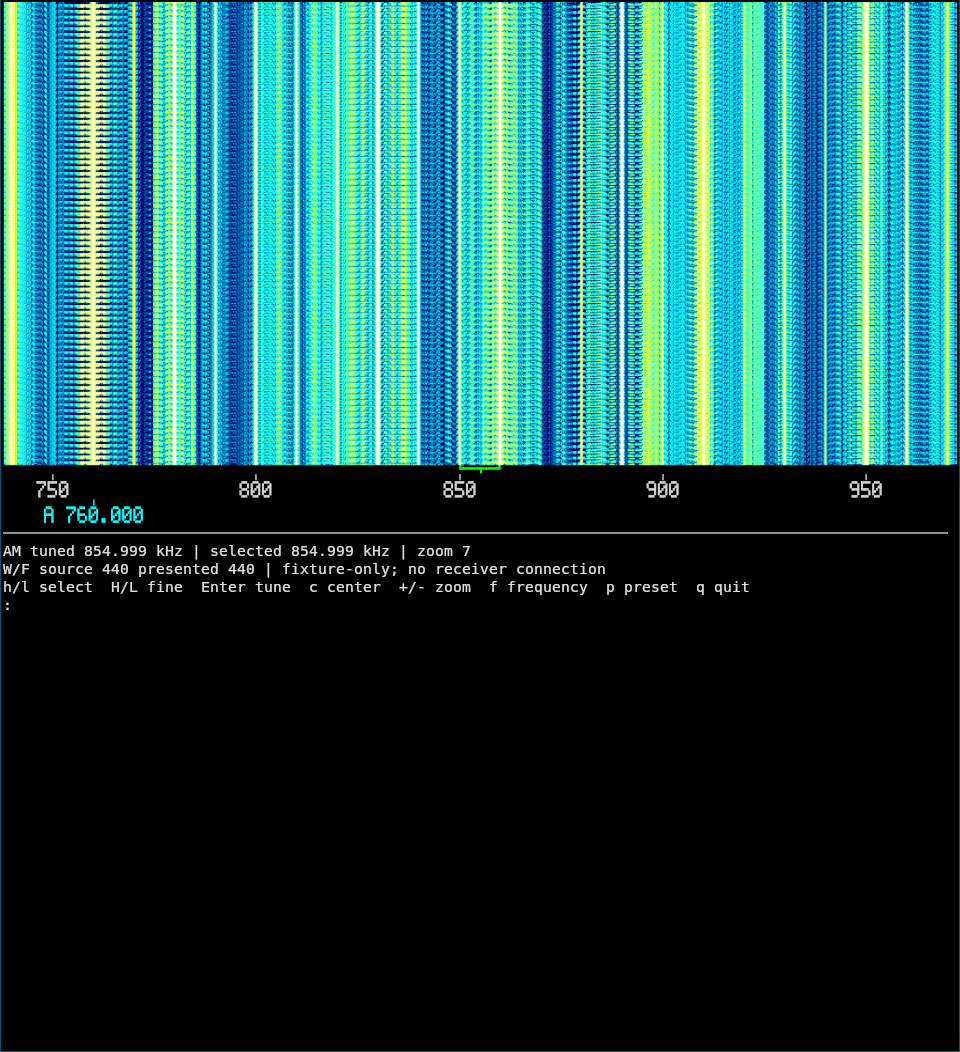
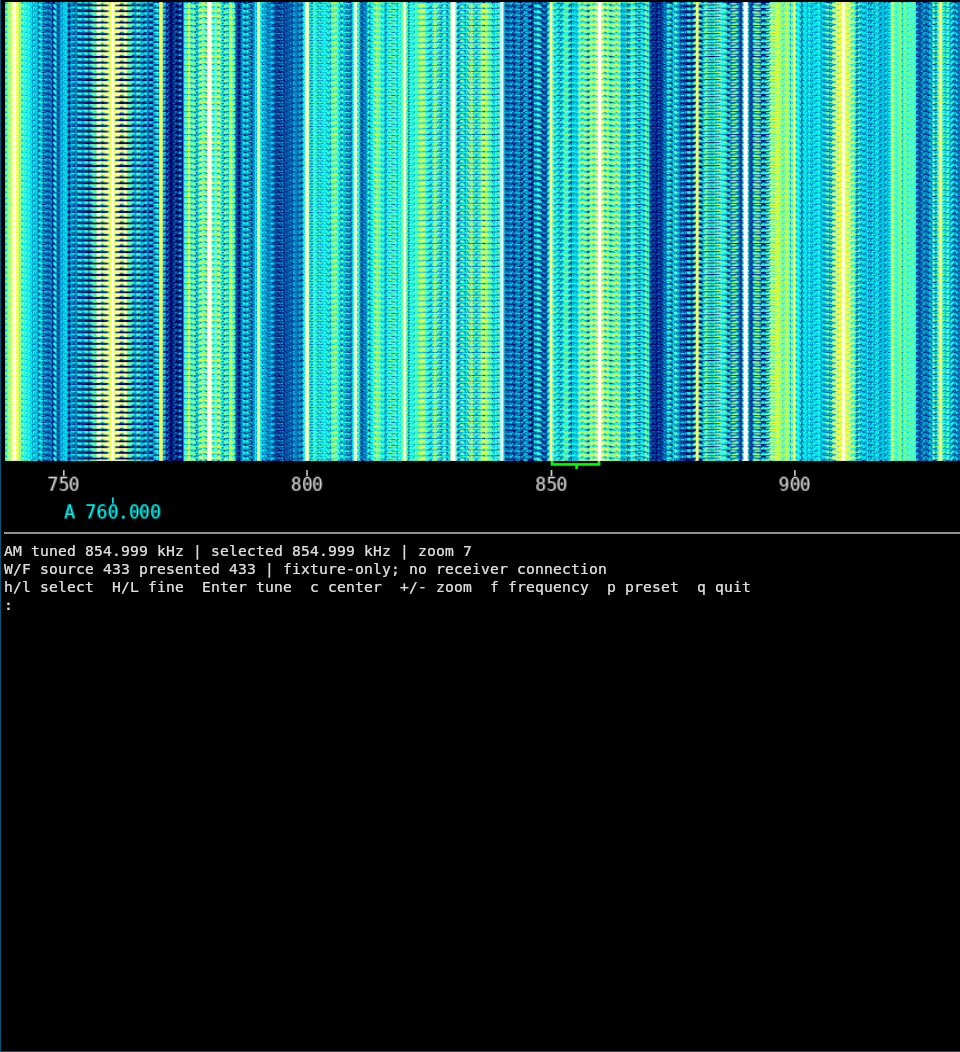
Render graphical scales with FreeType

diff --git a/src/kiwi_client/waterfall_scale.py b/src/kiwi_client/waterfall_scale.py
@@ -4,7 +4,7 @@ from __future__ import annotations
 
 import math
 from dataclasses import dataclass
-from typing import Any, Mapping
+from typing import Any, Mapping, Protocol
 
 from kiwi_client.waterfall_raster import CURSOR_MARKER_RGB, RasterImage
 from kiwi_client.waterfall_terminal import choose_frequency_tick_step, frequency_label_decimals
@@ -99,6 +99,83 @@ def draw_bitmap_text(
                             rgb[offset:offset + 3] = encoded_color
 
 
+class ScaleTextRenderer(Protocol):
+    backend: str
+    line_height: int
+
+    def width(self, text: str) -> int: ...
+
+    def render(
+        self,
+        rgb: bytes | bytearray,
+        width: int,
+        height: int,
+        labels: list[tuple[int, int, str, tuple[int, int, int]]],
+    ) -> bytes: ...
+
+
+class BitmapScaleTextRenderer:
+    backend = "bitmap"
+
+    def __init__(self, *, scale: int) -> None:
+        self.scale = scale
+        self.line_height = 7 * scale
+
+    def width(self, text: str) -> int:
+        return bitmap_text_width(text, scale=self.scale)
+
+    def render(self, rgb, width, height, labels) -> bytes:
+        canvas = bytearray(rgb)
+        for x, y, text, color in labels:
+            draw_bitmap_text(canvas, width, height, x, y, text, color, scale=self.scale)
+        return bytes(canvas)
+
+
+class PillowScaleTextRenderer:
+    """C-backed FreeType text renderer used by the integrated graphical scale."""
+
+    backend = "pillow"
+
+    def __init__(self, *, font_size: int, font_name: str = "DejaVuSansMono.ttf") -> None:
+        from PIL import ImageFont
+
+        if font_size <= 0:
+            raise ValueError("FreeType font size must be positive")
+        self.font = ImageFont.truetype(font_name, font_size)
+        self.line_height = font_size
+
+    def width(self, text: str) -> int:
+        return max(1, math.ceil(self.font.getlength(text)))
+
+    def render(self, rgb, width, height, labels) -> bytes:
+        from PIL import Image, ImageDraw
+
+        image = Image.frombytes("RGB", (width, height), bytes(rgb))
+        draw = ImageDraw.Draw(image)
+        for x, y, text, color in labels:
+            draw.text((x, y), text, fill=color, font=self.font, anchor="lt")
+        return image.tobytes()
+
+
+def scale_text_renderer(
+    backend: str,
+    *,
+    font_scale: int,
+    font_name: str = "DejaVuSansMono.ttf",
+) -> ScaleTextRenderer:
+    """Resolve FreeType text with a deterministic bitmap fallback."""
+    normalized = backend.lower()
+    if normalized not in ("auto", "pillow", "bitmap"):
+        raise ValueError("scale font backend must be auto, pillow or bitmap")
+    if normalized in ("auto", "pillow"):
+        try:
+            return PillowScaleTextRenderer(font_size=8 * font_scale, font_name=font_name)
+        except (ImportError, OSError):
+            if normalized == "pillow":
+                raise RuntimeError("Pillow/FreeType scale font is unavailable")
+    return BitmapScaleTextRenderer(scale=font_scale)
+
+
 @dataclass(frozen=True)
 class GraphicalScaleResult:
     image: RasterImage
@@ -107,6 +184,7 @@ class GraphicalScaleResult:
     tuning_top: int
     tick_top: int
     preset_stem_top: int
+    text_backend: str
 
 
 def _frequency_column(frequency_khz: float, start_khz: float, end_khz: float, width: int) -> int | None:
@@ -133,15 +211,18 @@ def compose_waterfall_scale(
     presets: Mapping[str, Mapping[str, Any]],
     label_target_pixels: int = 150,
     font_scale: int = 2,
+    font_backend: str = "auto",
+    font_name: str = "DejaVuSansMono.ttf",
 ) -> GraphicalScaleResult:
     """Compose pixel-aligned tuning, frequency and preset scales below W/F."""
     if end_khz <= start_khz or label_target_pixels < 20 or font_scale <= 0:
         raise ValueError("invalid graphical scale dimensions")
+    text_renderer = scale_text_renderer(font_backend, font_scale=font_scale, font_name=font_name)
     tuning_height = 8
     tick_height = 5
-    label_height = 7 * font_scale + 3
+    label_height = text_renderer.line_height + 3
     preset_stem_height = 5
-    preset_label_height = 7 * font_scale + 2
+    preset_label_height = text_renderer.line_height + 2
     footer_height = tuning_height + tick_height + label_height + preset_stem_height + preset_label_height
     output_height = waterfall.height + footer_height
     rgb = bytearray(waterfall.rgb + b"\x00" * waterfall.width * footer_height * 3)
@@ -177,6 +258,7 @@ def compose_waterfall_scale(
     step = choose_frequency_tick_step((end_khz - start_khz) / (target_labels - 1))
     decimals = frequency_label_decimals(step)
     frequency_labels: list[str] = []
+    text_labels: list[tuple[int, int, str, tuple[int, int, int]]] = []
     occupied: list[tuple[int, int]] = []
     frequency = math.ceil((start_khz - step * 1e-12) / step) * step
     while frequency <= end_khz + step * 1e-9:
@@ -185,20 +267,16 @@ def compose_waterfall_scale(
             for y in range(tick_top, tick_top + tick_height):
                 _set_pixel(rgb, waterfall.width, column, y, FREQUENCY_SCALE_RGB)
             label = f"{frequency:.{decimals}f}"
-            label_width = bitmap_text_width(label, scale=font_scale)
+            label_width = text_renderer.width(label)
             label_x = min(max(0, column - label_width // 2), max(0, waterfall.width - label_width))
             interval = (label_x, label_x + label_width)
             if not any(interval[0] < used[1] + font_scale and interval[1] + font_scale > used[0] for used in occupied):
-                draw_bitmap_text(
-                    rgb,
-                    waterfall.width,
-                    output_height,
+                text_labels.append((
                     label_x,
                     tick_top + tick_height + 1,
                     label,
                     FREQUENCY_SCALE_RGB,
-                    scale=font_scale,
-                )
+                ))
                 occupied.append(interval)
                 frequency_labels.append(label)
         frequency += step
@@ -217,29 +295,27 @@ def compose_waterfall_scale(
         assert column is not None
         for y in range(preset_stem_top, preset_stem_top + preset_stem_height):
             _set_pixel(rgb, waterfall.width, column, y, PRESET_SCALE_RGB)
-        label_width = bitmap_text_width(label, scale=font_scale)
+        label_width = text_renderer.width(label)
         label_x = min(max(0, column - label_width // 2), max(0, waterfall.width - label_width))
         interval = (label_x, label_x + label_width)
         if any(interval[0] < used[1] + font_scale and interval[1] + font_scale > used[0] for used in preset_occupied):
             continue
-        draw_bitmap_text(
-            rgb,
-            waterfall.width,
-            output_height,
+        text_labels.append((
             label_x,
             preset_stem_top + preset_stem_height + 1,
             label,
             PRESET_SCALE_RGB,
-            scale=font_scale,
-        )
+        ))
         preset_occupied.append(interval)
         preset_labels.append(label)
 
+    rendered_rgb = text_renderer.render(rgb, waterfall.width, output_height, text_labels)
     return GraphicalScaleResult(
-        image=RasterImage(waterfall.width, output_height, bytes(rgb)),
+        image=RasterImage(waterfall.width, output_height, rendered_rgb),
         frequency_labels=tuple(frequency_labels),
         preset_labels=tuple(preset_labels),
         tuning_top=tuning_top,
         tick_top=tick_top,
         preset_stem_top=preset_stem_top,
+        text_backend=text_renderer.backend,
     )

diff --git a/src/kiwi_client/integrated_terminal.py b/src/kiwi_client/integrated_terminal.py
@@ -246,6 +246,8 @@ def run_fixture_shell(
     presenter: KittyPanePresenter,
     source_fps: float,
     refresh_hz: float,
+    scale_font_backend: str = "auto",
+    scale_font_name: str = "DejaVuSansMono.ttf",
     demo_seconds: float | None = None,
 ) -> None:
     """Run fixture publication, curses text, and Kitty presentation in one thread."""
@@ -399,6 +401,8 @@ def run_fixture_shell(
                         low_cut_hz=state.low_cut_hz,
                         high_cut_hz=state.high_cut_hz,
                         presets=presets,
+                        font_backend=scale_font_backend,
+                        font_name=scale_font_name,
                     ).image
                 _safe_line(screen, layout.divider_row, "─" * columns, columns, curses.A_DIM)
                 rows = [
@@ -436,6 +440,8 @@ def build_arg_parser() -> argparse.ArgumentParser:
     parser.add_argument("--refresh-hz", type=float, default=5.0)
     parser.add_argument("--render-min-db", type=float, default=-100)
     parser.add_argument("--render-max-db", type=float, default=-40)
+    parser.add_argument("--scale-font", choices=("auto", "pillow", "bitmap"), default="auto")
+    parser.add_argument("--scale-font-name", default="DejaVuSansMono.ttf")
     parser.add_argument("--force", action="store_true")
     parser.add_argument("--demo-seconds", type=float, help="exit cleanly after a fixture demonstration interval")
     parser.add_argument("--dry-run", action="store_true")
@@ -484,6 +490,8 @@ def main(argv: list[str] | None = None) -> int:
                     presenter=presenter,
                     source_fps=args.fps,
                     refresh_hz=args.refresh_hz,
+                    scale_font_backend=args.scale_font,
+                    scale_font_name=args.scale_font_name,
                     demo_seconds=args.demo_seconds,
                 )
             )
@@ -547,6 +555,8 @@ def main(argv: list[str] | None = None) -> int:
                     presenter=presenter,
                     source_fps=args.fps,
                     refresh_hz=args.refresh_hz,
+                    scale_font_backend=args.scale_font,
+                    scale_font_name=args.scale_font_name,
                     demo_seconds=args.demo_seconds,
                 )
             )

diff --git a/tests/harness/test_waterfall_scale.py b/tests/harness/test_waterfall_scale.py
@@ -1,3 +1,5 @@
+import pytest
+
 from kiwi_client.waterfall_raster import CURSOR_MARKER_RGB, RasterImage
 from kiwi_client.waterfall_scale import (
     FREQUENCY_SCALE_RGB,
@@ -6,6 +8,7 @@ from kiwi_client.waterfall_scale import (
     bitmap_text_width,
     compose_waterfall_scale,
     draw_bitmap_text,
+    scale_text_renderer,
 )
 
 
@@ -21,6 +24,22 @@ def test_bitmap_font_draws_deterministic_numeric_and_register_text():
     assert bitmap_text_width("A 760.0", scale=2) == 82
     assert any(canvas)
     assert tuple(canvas[(1 * 80 + 3) * 3:(1 * 80 + 3) * 3 + 3]) == FREQUENCY_SCALE_RGB
+
+
+def test_pillow_freetype_renderer_is_antialiased_when_available():
+    pytest.importorskip("PIL")
+    renderer = scale_text_renderer("pillow", font_scale=2)
+    rendered = renderer.render(
+        b"\x00" * 120 * 24 * 3,
+        120,
+        24,
+        [(1, 1, "850.0", (255, 255, 255))],
+    )
+
+    channel_values = set(rendered[0::3])
+    assert renderer.backend == "pillow"
+    assert 255 in channel_values
+    assert any(0 < value < 255 for value in channel_values)
 
 
 def test_graphical_scale_uses_exact_frequency_columns_for_all_markers():

diff --git a/docs/user-guide.md b/docs/user-guide.md
@@ -571,10 +571,10 @@ The viewer caches bounded RGB rows and uses fast PNG compression so unchanged hi
 
 `kiwi-console` is the primary integrated terminal prototype. It places one composed Kitty image in the upper half of a curses alternate screen, followed by a compact control/status area. Fixture mode never connects; guarded live mode is described below.
 
-Install/update the editable command, then inspect its plan without opening curses:
+Install/update the editable command with anti-aliased graphical labels, then inspect its plan without opening curses:
 
 ```bash
-.kiwi-venv/bin/python -m pip install -e .
+.kiwi-venv/bin/python -m pip install -e '.[terminal-graphics]'
 kiwi-console --fixture tests/fixtures/kiwi/local-wf-am-855-zoom7.jsonl --dry-run
 ```
 
@@ -597,7 +597,7 @@ kiwi-console --allow-live --receiver 10.0.0.40:8073 \
 
 The controller opens SND before W/F, publishes bounded latest snapshots, routes typed tune/view actions to the active stream queues, and stops/joins both streams on console exit. `--dry-run` reports the intended command without connecting.
 
-Fixture controls are `h`/`l` or arrows for main selection steps, `H`/`L` for fine steps, Enter to tune selected, `c` to center, `+`/`-` to zoom, `f` for direct kHz entry, `p` followed by a register to recall a preset locally, and `q` to exit. Generated radio commands remain local and are not sent. Direct frequency entry and Enter tune SND without implicitly recentering W/F; use `c` explicitly to center on the selection. The upper Kitty image now composes W/F history, a two-pixel green passband/center bracket, magenta selection pointer, major frequency tick stems and bitmap labels, and cyan preset stems/bitmap labels on one 1024-bin graphical coordinate system. Labels omit `kHz`, non-major exact edges are suppressed, and pixel-coordinate collision rejection keeps labels readable. Redundant terminal-cell rulers have been removed. This follows the general KiwiSDR visual language without duplicating the browser UI.
+Fixture controls are `h`/`l` or arrows for main selection steps, `H`/`L` for fine steps, Enter to tune selected, `c` to center, `+`/`-` to zoom, `f` for direct kHz entry, `p` followed by a register to recall a preset locally, and `q` to exit. Generated radio commands remain local and are not sent. Direct frequency entry and Enter tune SND without implicitly recentering W/F; use `c` explicitly to center on the selection. The upper Kitty image now composes W/F history, a two-pixel green passband/center bracket, magenta selection pointer, major frequency tick stems and anti-aliased FreeType labels, and cyan preset stems/labels on one 1024-bin graphical coordinate system. Labels omit `kHz`, non-major exact edges are suppressed, and pixel-coordinate collision rejection keeps labels readable. `--scale-font auto` uses Pillow with DejaVu Sans Mono and falls back to the deterministic bitmap font; `--scale-font bitmap` forces the fallback and `--scale-font-name` selects another installed TrueType font. Redundant terminal-cell rulers have been removed. This follows the general KiwiSDR visual language without duplicating the browser UI.
 
 Automated fixture capture used for local visual regression:
 

diff --git a/docs/dev-log.md b/docs/dev-log.md
@@ -729,6 +729,24 @@ Three pure raster tests cover deterministic glyph output, exact marker/tick/pres
 
 Proceed with existing-TUI lower-panel reuse and manual/automatic colormap controls.
 
+## 2026-09-04 — FreeType graphical scale labels
+
+### Finding
+
+The dependency-free 5x7 font kept exact alignment but was visibly crude, and its Python per-pixel glyph loop was inappropriate as the preferred renderer.
+
+### Decision
+
+Added a lazy Pillow/FreeType scale renderer using DejaVu Sans Mono with anti-aliasing and C-backed rasterization. Text labels are collected and rendered onto the composed image in one Pillow pass rather than copying the image per label. `auto` falls back to the deterministic bitmap renderer if Pillow/font loading is unavailable; `pillow` and `bitmap` can be selected explicitly, and the font name is configurable. Added the optional `terminal-graphics` dependency group.
+
+### Test and visual result
+
+A focused test verifies FreeType output includes anti-aliased intermediate pixel values while existing exact-column/collision tests remain backend-independent. Automated Kitty fixture capture refreshed `docs/screenshots/kiwi-console-fixture.png` and shows materially smoother frequency/preset labels. Full harness: 357 tests passed in 3.95 seconds; `compileall` and `git diff --check` passed. No receiver connection was made.
+
+### Follow-up
+
+Implement manual/automatic colormap scaling, then reuse existing TUI lower-panel behavior.
+
 ## YYYY-MM-DD
 
 ### Finding

diff --git a/TODO.md b/TODO.md
@@ -18,6 +18,7 @@ Completed and validated:
 
 Completed:
 
+- Replaced the prototype 5x7 scale font with anti-aliased Pillow/FreeType DejaVu Sans Mono; retained deterministic bitmap fallback and explicit backend/font options.
 - Composed W/F history, passband/selection strip, frequency ticks/labels, and preset stems/labels into one 1024-bin Kitty image.
 - Added deterministic dependency-free 5x7 bitmap text, round major ticks, exact shared frequency columns, and pixel-coordinate collision rejection.
 - Removed redundant terminal-cell scale rows and returned that space to curses controls.
